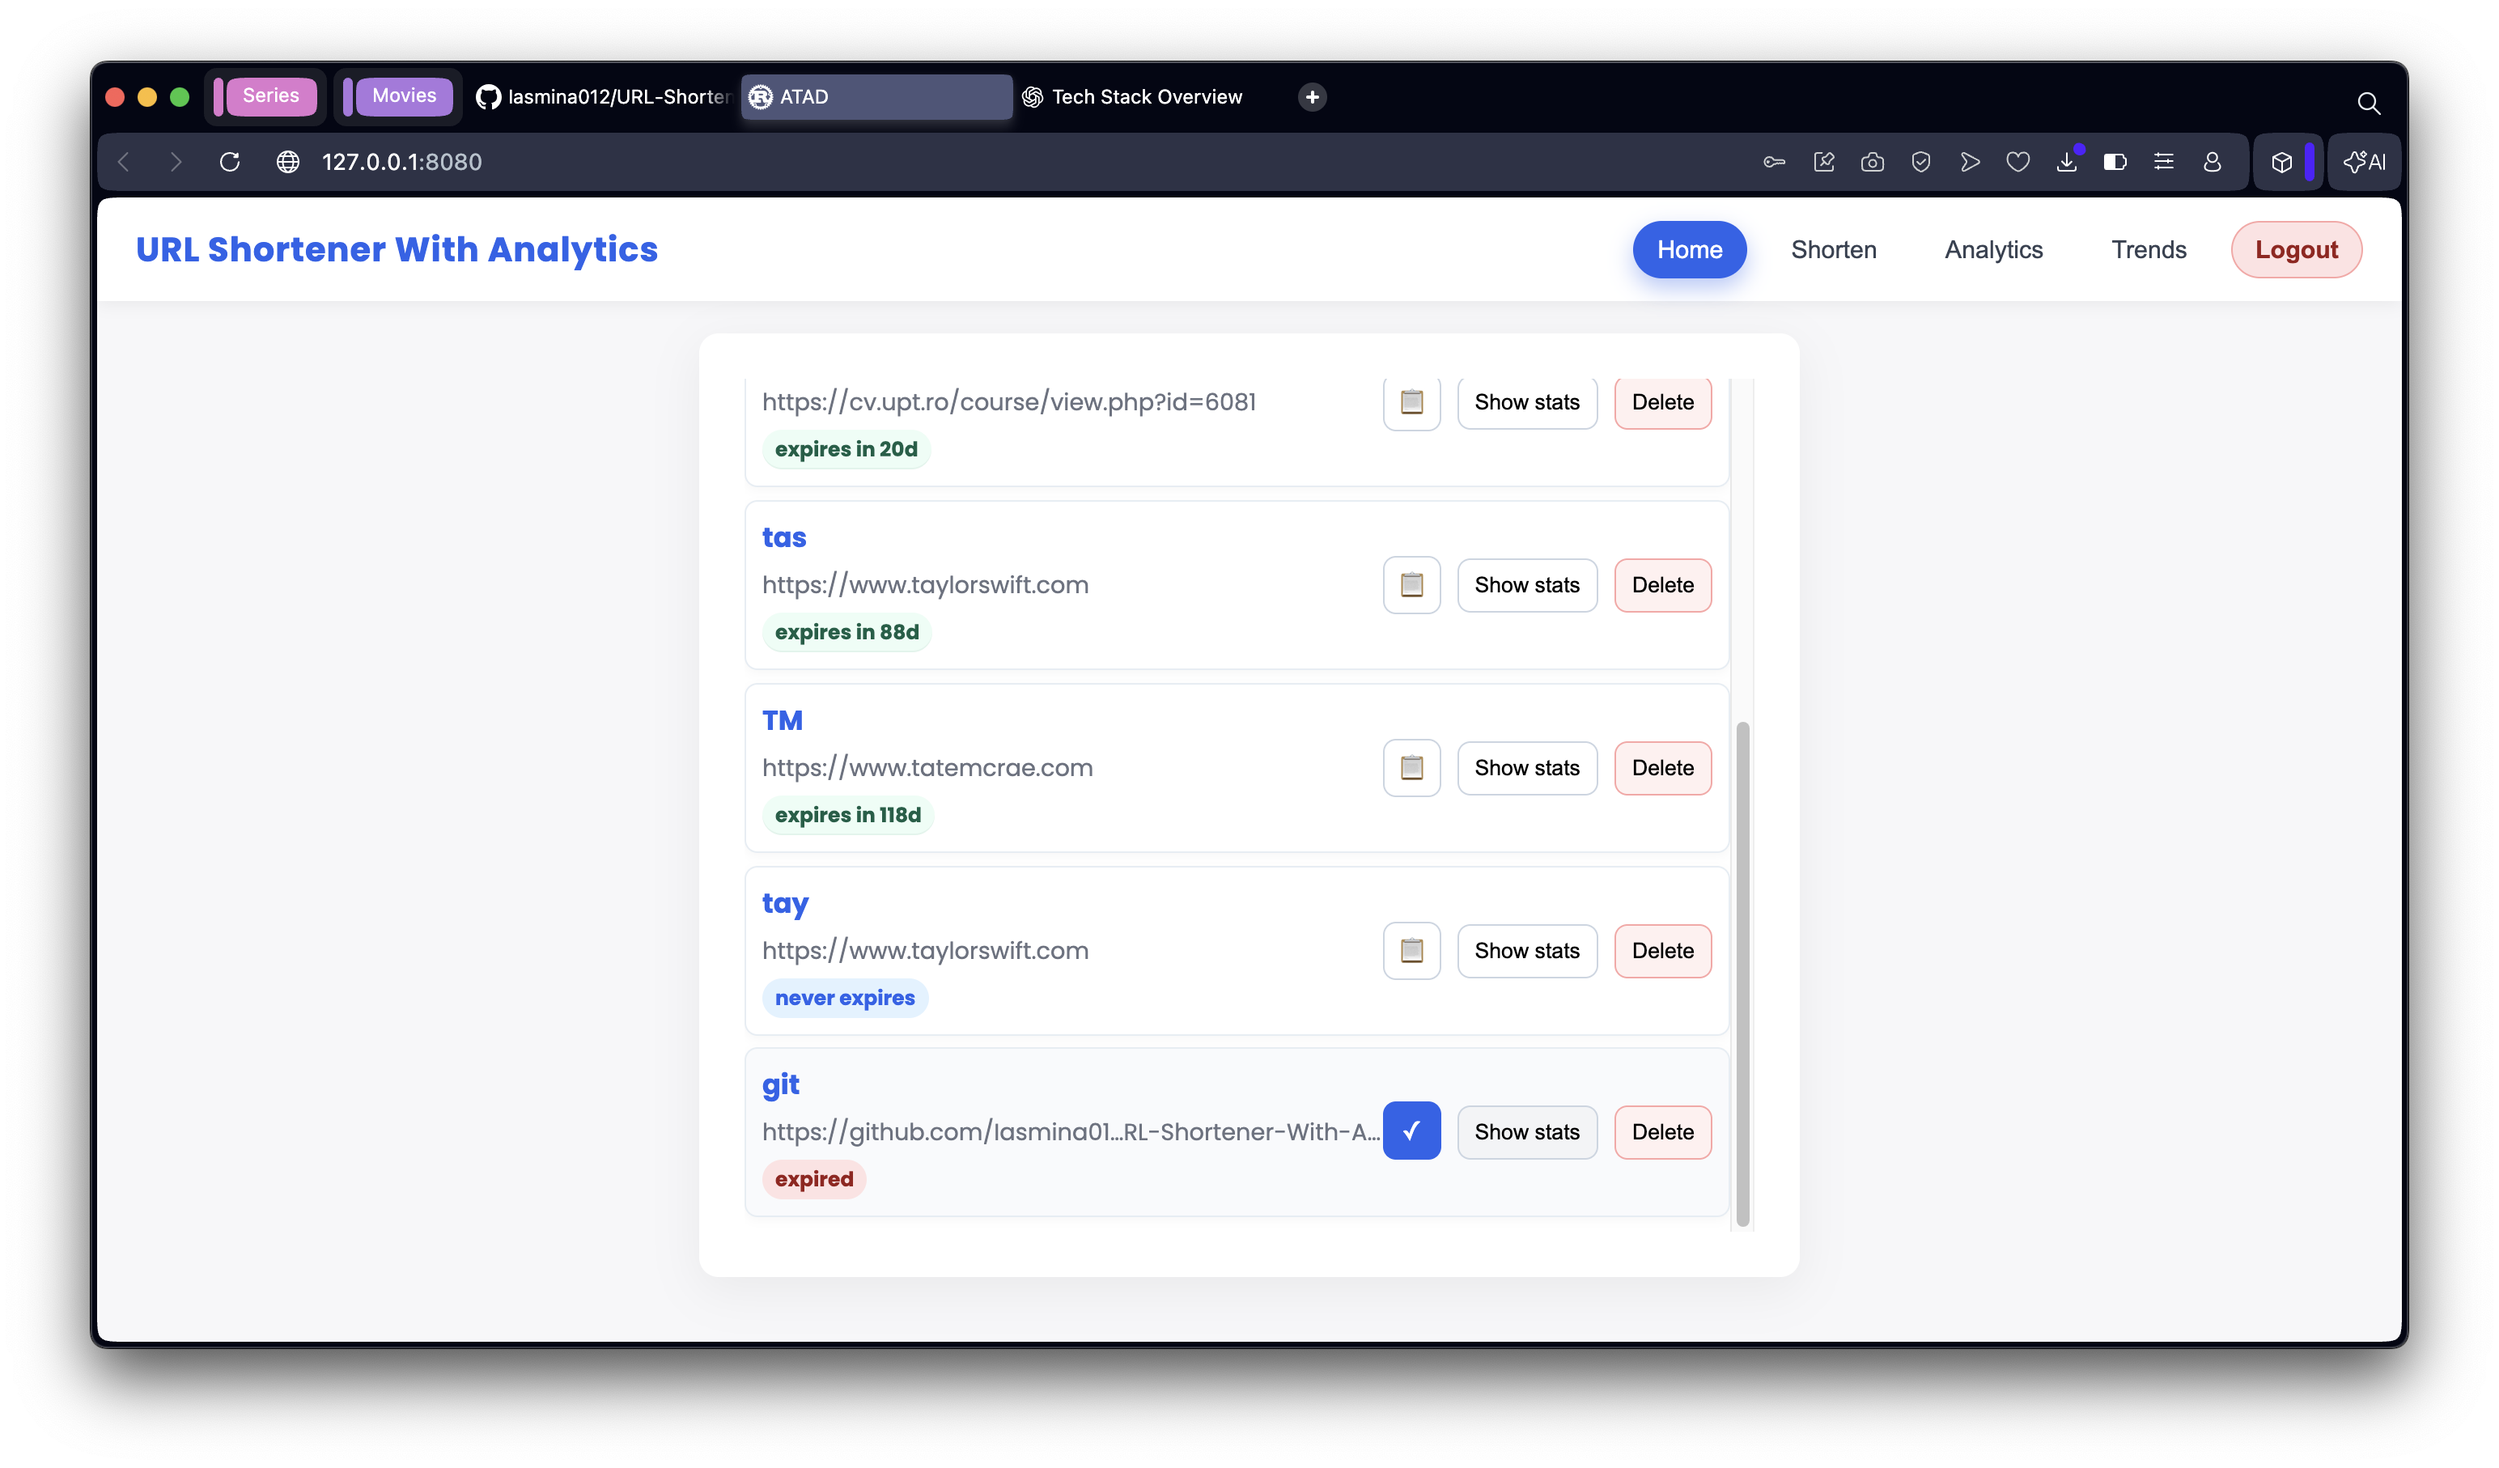
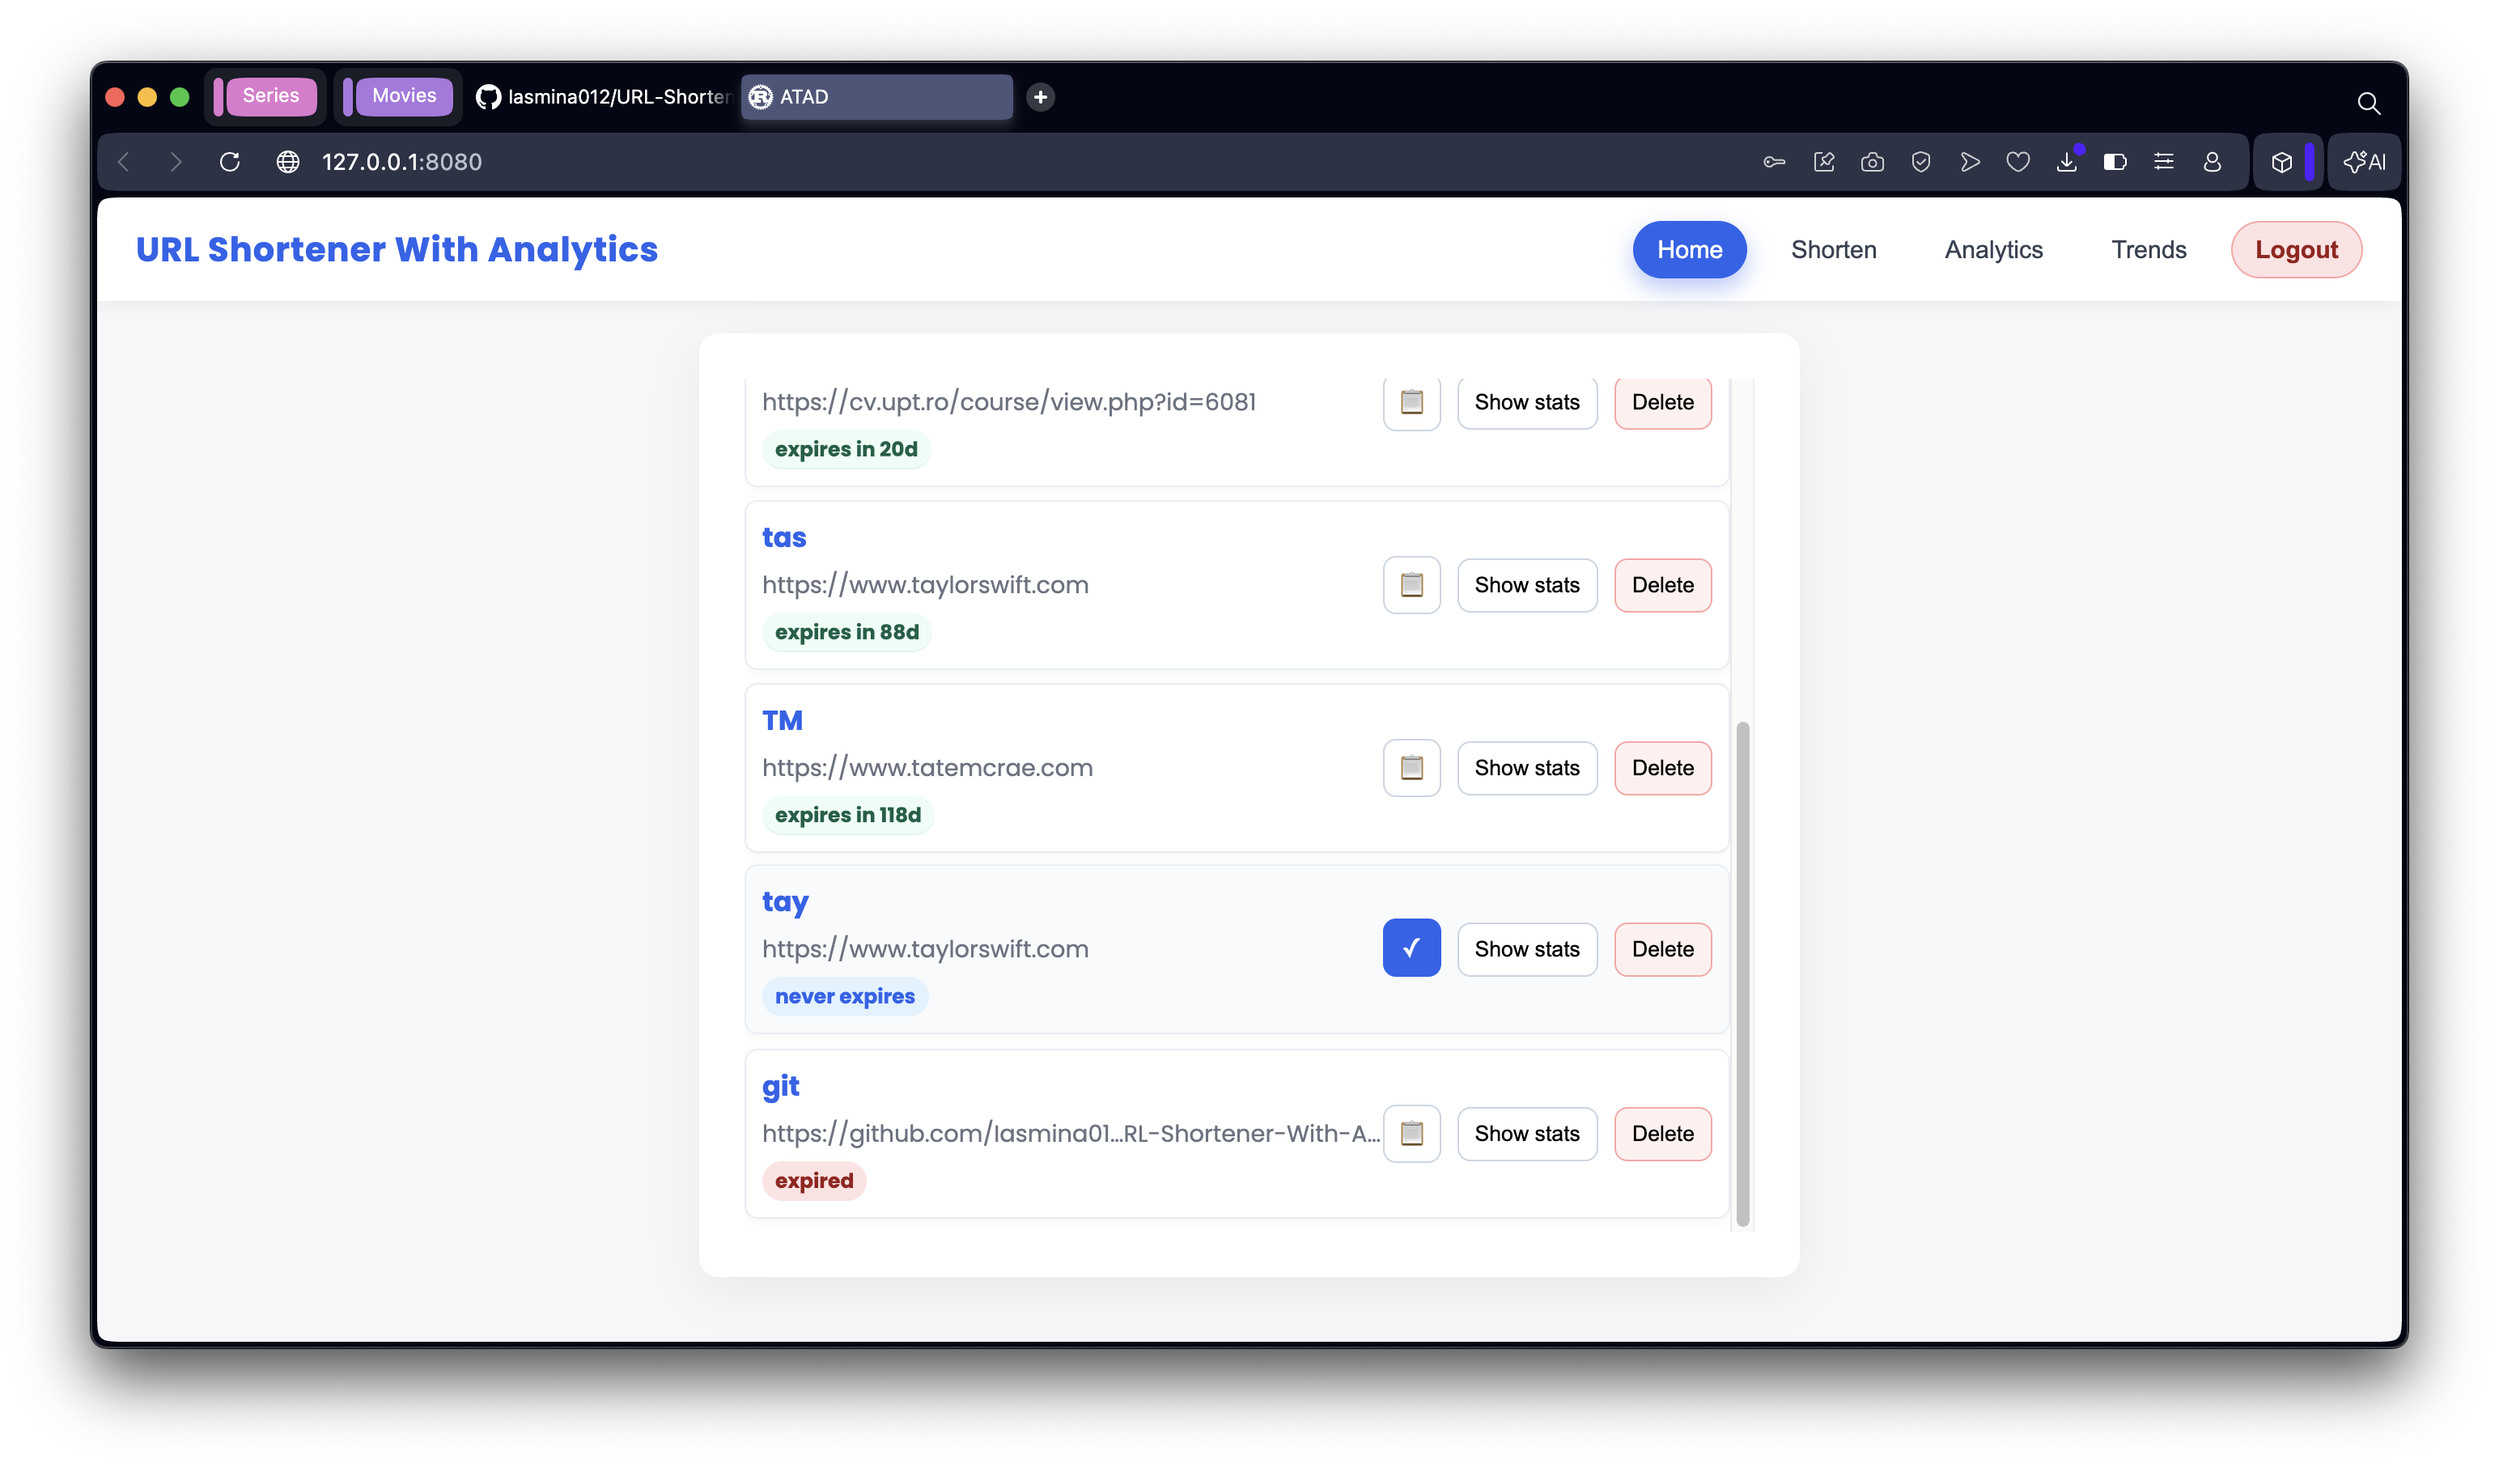
Fixed wrong picture

diff --git a/README.md b/README.md
@@ -229,7 +229,7 @@ The **My URLs** dashboard provides a centralized view of all URLs created by the
 <p align="center">
   <img width="1500" height="863" alt="My URLs 1" src="https://github.com/user-attachments/assets/d1b500b0-08ff-4b2f-85c8-3acd23cb21dc" />
   <img width="1544" height="907" alt="My URLs 2" src="https://github.com/user-attachments/assets/9b3e376f-ffa0-45e9-b687-ab6732cd71e9" />
-  <img width="1544" height="907" alt="My URLs 3" src="https://github.com/user-attachments/assets/21262104-8759-468e-a082-9bb0d264ae76" />
+  <img width="1544" height="907" alt="My URLs 3" src="https://github.com/user-attachments/assets/31589f09-0323-40e0-b184-79643d30716c" />
 </p>
 
 Users can:
